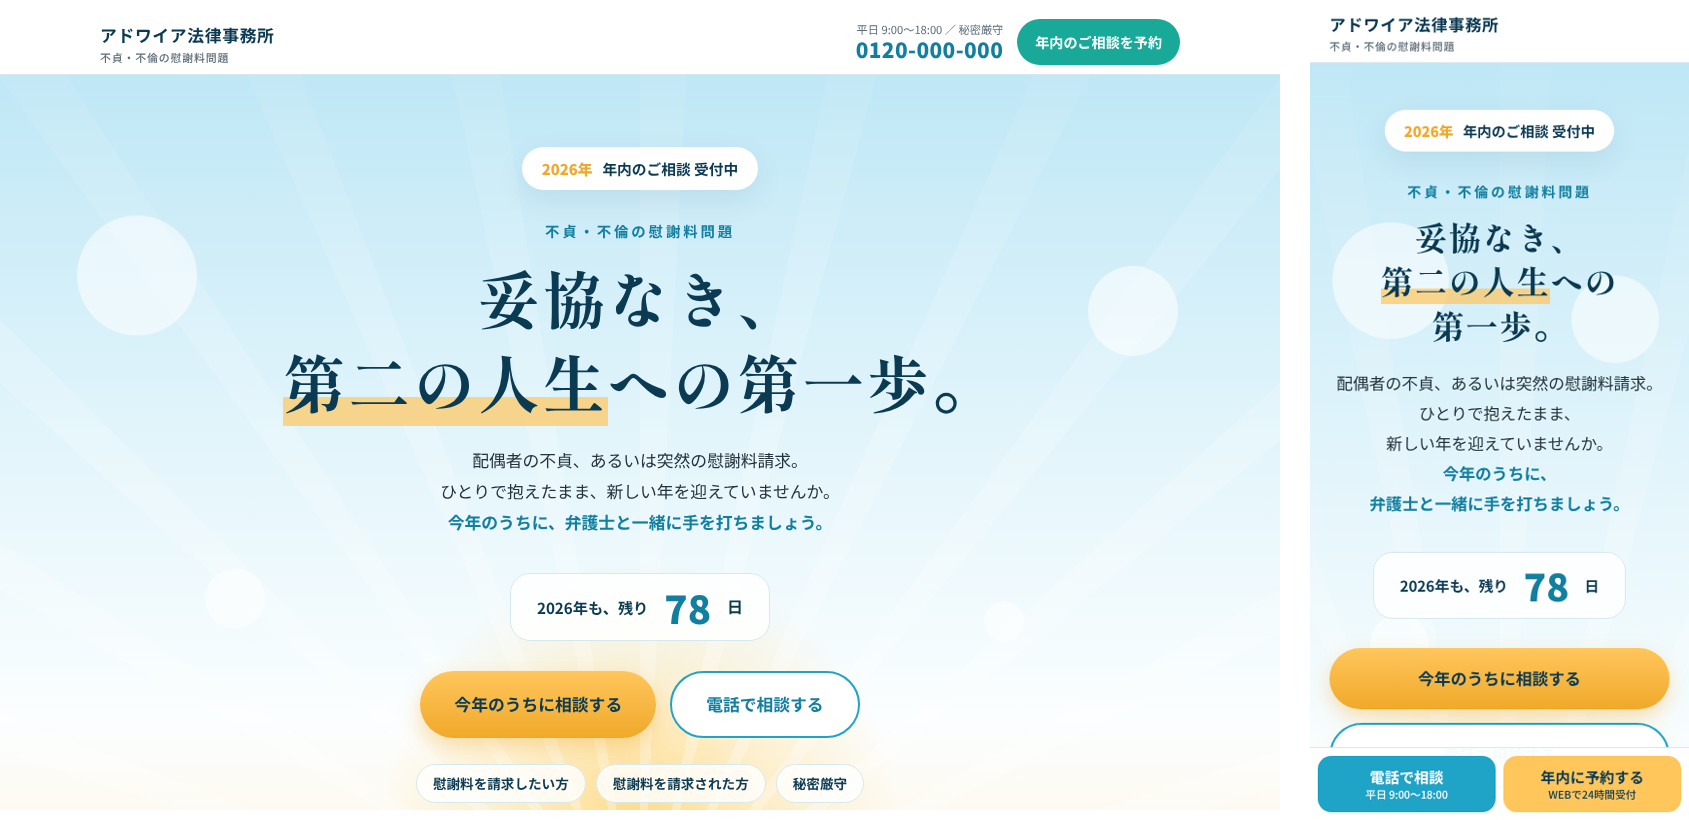
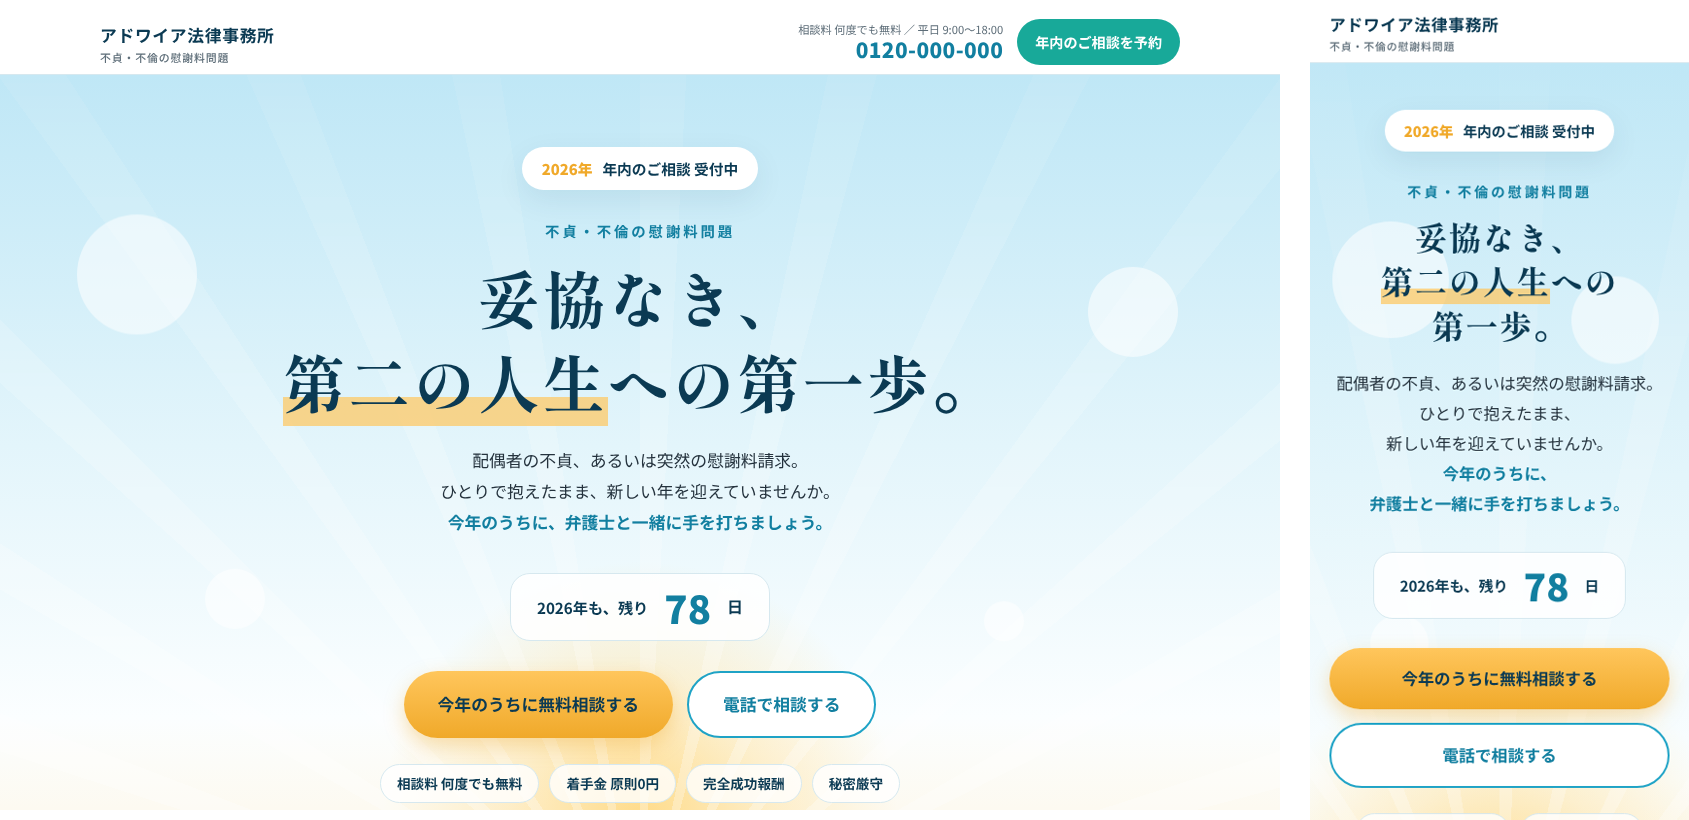
Update futei LP fees: free consultations, no retainer, contingency-only, free termination
Claude-Session: https://claude.ai/code/session_01ACs8NDDQkiDjqEv4T7sdYT

diff --git a/futei-lp.html b/futei-lp.html
@@ -4,7 +4,7 @@
   <meta charset="UTF-8">
   <meta name="viewport" content="width=device-width, initial-scale=1.0">
   <title>不貞・不倫の慰謝料問題 | 年内のご相談受付中 | アドワイア法律事務所</title>
-  <meta name="description" content="配偶者の不貞・不倫による慰謝料請求、または慰謝料を請求された方へ。今年のうちに、第二の人生への第一歩を。弁護士が交渉の窓口となり、新しい年を身軽に迎えるお手伝いをします。">
+  <meta name="description" content="配偶者の不貞・不倫による慰謝料請求、または慰謝料を請求された方へ。今年のうちに、第二の人生への第一歩を。弁護士が交渉の窓口となり、新しい年を身軽に迎えるお手伝いをします。相談料は何度でも無料、着手金は原則0円の完全成功報酬制。">
   <link rel="preconnect" href="https://fonts.googleapis.com">
   <link rel="preconnect" href="https://fonts.gstatic.com" crossorigin>
   <link href="https://fonts.googleapis.com/css2?family=Noto+Sans+JP:wght@400;500;700;900&family=Shippori+Mincho:wght@600;800&display=swap" rel="stylesheet">
@@ -235,6 +235,19 @@
     .fee-table td { background: var(--white); }
     .fee-table tr:last-child th, .fee-table tr:last-child td { border-bottom: none; }
     .tbd { color: #c0392b; font-weight: 700; }
+    .fee-points { margin: 44px auto 0; max-width: 860px; display: grid; grid-template-columns: repeat(3, 1fr); gap: 16px; }
+    .fee-point { background: linear-gradient(180deg, var(--sky), var(--white)); border: 1px solid var(--border); border-radius: 22px; padding: 24px 16px; text-align: center; box-shadow: var(--shadow); }
+    .fee-point .k { font-weight: 700; color: var(--deep); font-size: .95rem; }
+    .fee-point .v { margin-top: 4px; font-weight: 900; color: var(--aqua-dark); font-size: clamp(1.5rem, 3.6vw, 2.1rem); line-height: 1.3; }
+    .fee-point .v small { font-size: .55em; color: var(--deep); }
+    .fee-point .s { margin-top: 6px; font-size: .82rem; color: var(--text-light); }
+    .free-end { margin: 24px auto 0; max-width: 860px; border-radius: 24px; padding: 26px 30px; background: var(--deep); color: var(--white); display: grid; grid-template-columns: auto 1fr; gap: 22px; align-items: center; }
+    .free-end .badge { width: 104px; height: 104px; border-radius: 50%; background: var(--sun); color: var(--deep); display: grid; place-items: center; text-align: center; font-weight: 900; line-height: 1.25; font-size: 1.05rem; }
+    .free-end h3 { font-size: 1.2rem; line-height: 1.5; }
+    .free-end h3 em { font-style: normal; color: var(--sun); }
+    .free-end ul { margin-top: 10px; list-style: none; display: flex; flex-wrap: wrap; gap: 8px; }
+    .free-end li { background: rgba(255, 255, 255, .12); border-radius: 999px; padding: 4px 14px; font-size: .85rem; }
+    .free-end p { margin-top: 10px; font-size: .85rem; color: rgba(255, 255, 255, .8); }
     .fee-note { max-width: 760px; margin: 14px auto 0; font-size: .82rem; color: var(--text-light); }
 
     /* ─── FAQ ─── */
@@ -305,6 +318,9 @@
       .fee-table th, .fee-table td { display: block; width: 100%; }
       .fee-table th { border-bottom: none; padding-bottom: 6px; }
       .fixed-bar { display: grid; }
+      .fee-points { grid-template-columns: 1fr; }
+      .free-end { grid-template-columns: 1fr; justify-items: center; text-align: center; padding: 24px 20px; }
+      .free-end ul { justify-content: center; }
     }
     @media (min-width: 641px) { body { padding-bottom: 0; } }
     @media (prefers-reduced-motion: reduce) {
@@ -320,7 +336,7 @@
     <div class="logo">アドワイア法律事務所<small>不貞・不倫の慰謝料問題</small></div>
     <div class="header-actions">
       <div class="header-tel">
-        <small>平日 9:00〜18:00 ／ 秘密厳守</small>
+        <small>相談料 何度でも無料 ／ 平日 9:00〜18:00</small>
         <a href="tel:0120-000-000">0120-000-000</a>
       </div>
       <a href="#contact" class="btn-header">年内のご相談を予約</a>
@@ -349,12 +365,13 @@
       <span class="num js-days">--</span><span class="unit">日</span>
     </div>
     <div class="hero-cta">
-      <a href="#contact" class="btn btn-sun">今年のうちに相談する</a>
+      <a href="#contact" class="btn btn-sun">今年のうちに無料相談する</a>
       <a href="tel:0120-000-000" class="btn btn-outline">電話で相談する</a>
     </div>
     <div class="hero-points">
-      <span>慰謝料を請求したい方</span>
-      <span>慰謝料を請求された方</span>
+      <span>相談料 何度でも無料</span>
+      <span>着手金 原則0円</span>
+      <span>完全成功報酬</span>
       <span>秘密厳守</span>
     </div>
   </div>
@@ -530,8 +547,8 @@
       </div>
       <div class="why-item reveal">
         <div class="n">03</div>
-        <div><h3>費用は事前に、わかりやすく</h3>
-          <p>ご依頼前に費用の内訳と見込みをご説明し、ご納得いただいてから正式にお引き受けします。</p></div>
+        <div><h3>相談は何度でも無料。費用は成功したときだけ。</h3>
+          <p>相談料は何度でも無料です。着手金は原則いただかない完全成功報酬制なので、手元にまとまったお金がなくてもご依頼いただけます。費用の内訳はご依頼前にご説明し、ご納得いただいてから正式にお引き受けします。</p></div>
       </div>
     </div>
   </div>
@@ -544,7 +561,7 @@
     <h2 class="sec-title">ご相談から解決までの流れ</h2>
     <div class="flow-steps">
       <div class="step reveal"><h3>お問い合わせ</h3><p>お電話またはWEBフォームから、ご相談日時をご予約ください。</p></div>
-      <div class="step reveal"><h3>弁護士とのご相談</h3><p>状況やご希望を伺い、見通しと費用をご説明します。</p></div>
+      <div class="step reveal"><h3>弁護士とのご相談</h3><p>状況やご希望を伺い、見通しと費用をご説明します。相談料は何度でも無料です。</p></div>
       <div class="step reveal"><h3>ご依頼・交渉開始</h3><p>ご納得いただけたらご依頼。弁護士が相手方との交渉の窓口になります。</p></div>
       <div class="step reveal"><h3>合意・解決</h3><p>合意内容を示談書にまとめ、新しい生活へのスタートを切ります。</p></div>
     </div>
@@ -555,15 +572,29 @@
 <section>
   <div class="container">
     <p class="sec-label">FEE</p>
-    <h2 class="sec-title">弁護士費用</h2>
+    <h2 class="sec-title">弁護士費用は、<em>完全成功報酬制</em></h2>
+    <p class="sec-lead">「費用が心配で相談できない」ということがないように。<br>相談は何度でも無料、着手金は原則0円です。</p>
+    <div class="fee-points">
+      <div class="fee-point reveal"><div class="k">相談料</div><div class="v">何度でも<br>無料</div><div class="s">納得できるまでご相談ください</div></div>
+      <div class="fee-point reveal"><div class="k">着手金</div><div class="v">原則<br>0<small>円</small></div><div class="s">ご依頼時のお支払いは原則不要</div></div>
+      <div class="fee-point reveal"><div class="k">報酬金</div><div class="v">完全<br>成功報酬</div><div class="s">成功したときだけお支払い</div></div>
+    </div>
+    <div class="free-end reveal">
+      <div class="badge">費用<br>0円で<br>終了</div>
+      <div>
+        <h3>慰謝料請求が困難になった場合は、<br><em>費用をいただかずに終了</em>します。</h3>
+        <ul><li>証拠が足りなかった</li><li>相手方と連絡が取れなくなった</li><li>相手方の所在がわからなくなった</li></ul>
+        <p>ご依頼後に、こうした事情で慰謝料の請求が難しくなった場合も、費用のご負担はありません。</p>
+      </div>
+    </div>
     <table class="fee-table">
-      <tr><th>ご相談料</th><td><span class="tbd">【要確認】</span></td></tr>
-      <tr><th>着手金（慰謝料を請求する場合）</th><td><span class="tbd">【要確認】</span></td></tr>
-      <tr><th>着手金（慰謝料を請求された場合）</th><td><span class="tbd">【要確認】</span></td></tr>
-      <tr><th>報酬金</th><td><span class="tbd">【要確認】</span></td></tr>
-      <tr><th>実費</th><td>郵便代・印紙代などの実費が別途かかります</td></tr>
+      <tr><th>ご相談料</th><td><strong>何度でも無料</strong></td></tr>
+      <tr><th>着手金</th><td><strong>原則0円</strong></td></tr>
+      <tr><th>報酬金</th><td><strong>完全成功報酬</strong>　<span class="tbd">【報酬額・割合を要確認】</span></td></tr>
+      <tr><th>慰謝料請求が困難となった場合</th><td><strong>費用はいただかず、無料で終了</strong></td></tr>
+      <tr><th>実費</th><td>郵便代・印紙代などの実費 <span class="tbd">【無料終了時の扱いを要確認】</span></td></tr>
     </table>
-    <p class="fee-note">※費用は税込表示です。事案の内容により異なる場合がありますので、詳細はご相談時にご説明します。</p>
+    <p class="fee-note">※事案の内容により、例外的に着手金が発生する場合があります。その場合も、ご依頼前に必ずご説明し、ご納得いただいてからお引き受けします。</p>
   </div>
 </section>
 
@@ -580,6 +611,10 @@
       <details>
         <summary>離婚するつもりはありません。それでも慰謝料を請求できますか？</summary>
         <div class="a">離婚しない場合でも、不貞相手に対して慰謝料を請求できる場合があります。ただし、金額は離婚に至った場合と比べて低くなる傾向があります。</div>
+      </details>
+      <details>
+        <summary>証拠が足りなかったり、相手に連絡がつかなくなったりした場合、費用はかかりますか？</summary>
+        <div class="a">ご依頼後に、証拠が足りなかった場合や、相手方と連絡が取れなくなった・所在がわからなくなった場合など、慰謝料の請求が困難になったときは、費用をいただかずに終了します。相談料も何度でも無料ですので、まずはお気軽にご相談ください。</div>
       </details>
       <details>
         <summary>家族や職場に知られずに進められますか？</summary>
@@ -602,7 +637,7 @@
   <div class="container">
     <p class="sec-label">CONTACT</p>
     <h2 class="mincho"><span class="nw">妥協なき</span><span class="nw">第二の人生への</span><span class="nw">第一歩を、</span><br>今年のうちに。</h2>
-    <p class="cta-lead"><span class="nw">来年は、肩の荷を下ろして迎えましょう。</span><span class="nw">ご相談内容は秘密厳守です。</span></p>
+    <p class="cta-lead"><span class="nw">来年は、肩の荷を下ろして迎えましょう。</span><span class="nw">相談料は何度でも無料、</span><span class="nw">着手金は原則0円です。</span></p>
     <div class="cta-box">
       <div class="cta-card">
         <h3>お電話でのご相談予約</h3>
@@ -627,7 +662,7 @@
             <select name="time"><option>いつでも可</option><option>平日 午前</option><option>平日 午後</option><option>平日 18時以降</option></select>
           </label>
           <label>ご相談の概要（任意）<textarea name="message" placeholder="差し支えない範囲でご記入ください"></textarea></label>
-          <button type="submit" class="btn btn-sun" style="border:none;cursor:pointer">年内のご相談を予約する</button>
+          <button type="submit" class="btn btn-sun" style="border:none;cursor:pointer">年内の無料相談を予約する</button>
           <p class="form-msg" id="formMsg" role="status"></p>
         </form>
       </div>
@@ -644,7 +679,7 @@
 </footer>
 
 <div class="fixed-bar">
-  <a href="tel:0120-000-000" style="background:var(--aqua);color:#fff">電話で相談<small>平日 9:00〜18:00</small></a>
+  <a href="tel:0120-000-000" style="background:var(--aqua);color:#fff">無料で電話相談<small>平日 9:00〜18:00</small></a>
   <a href="#contact" style="background:var(--sun);color:var(--deep)">年内に予約する<small>WEBで24時間受付</small></a>
 </div>
 
